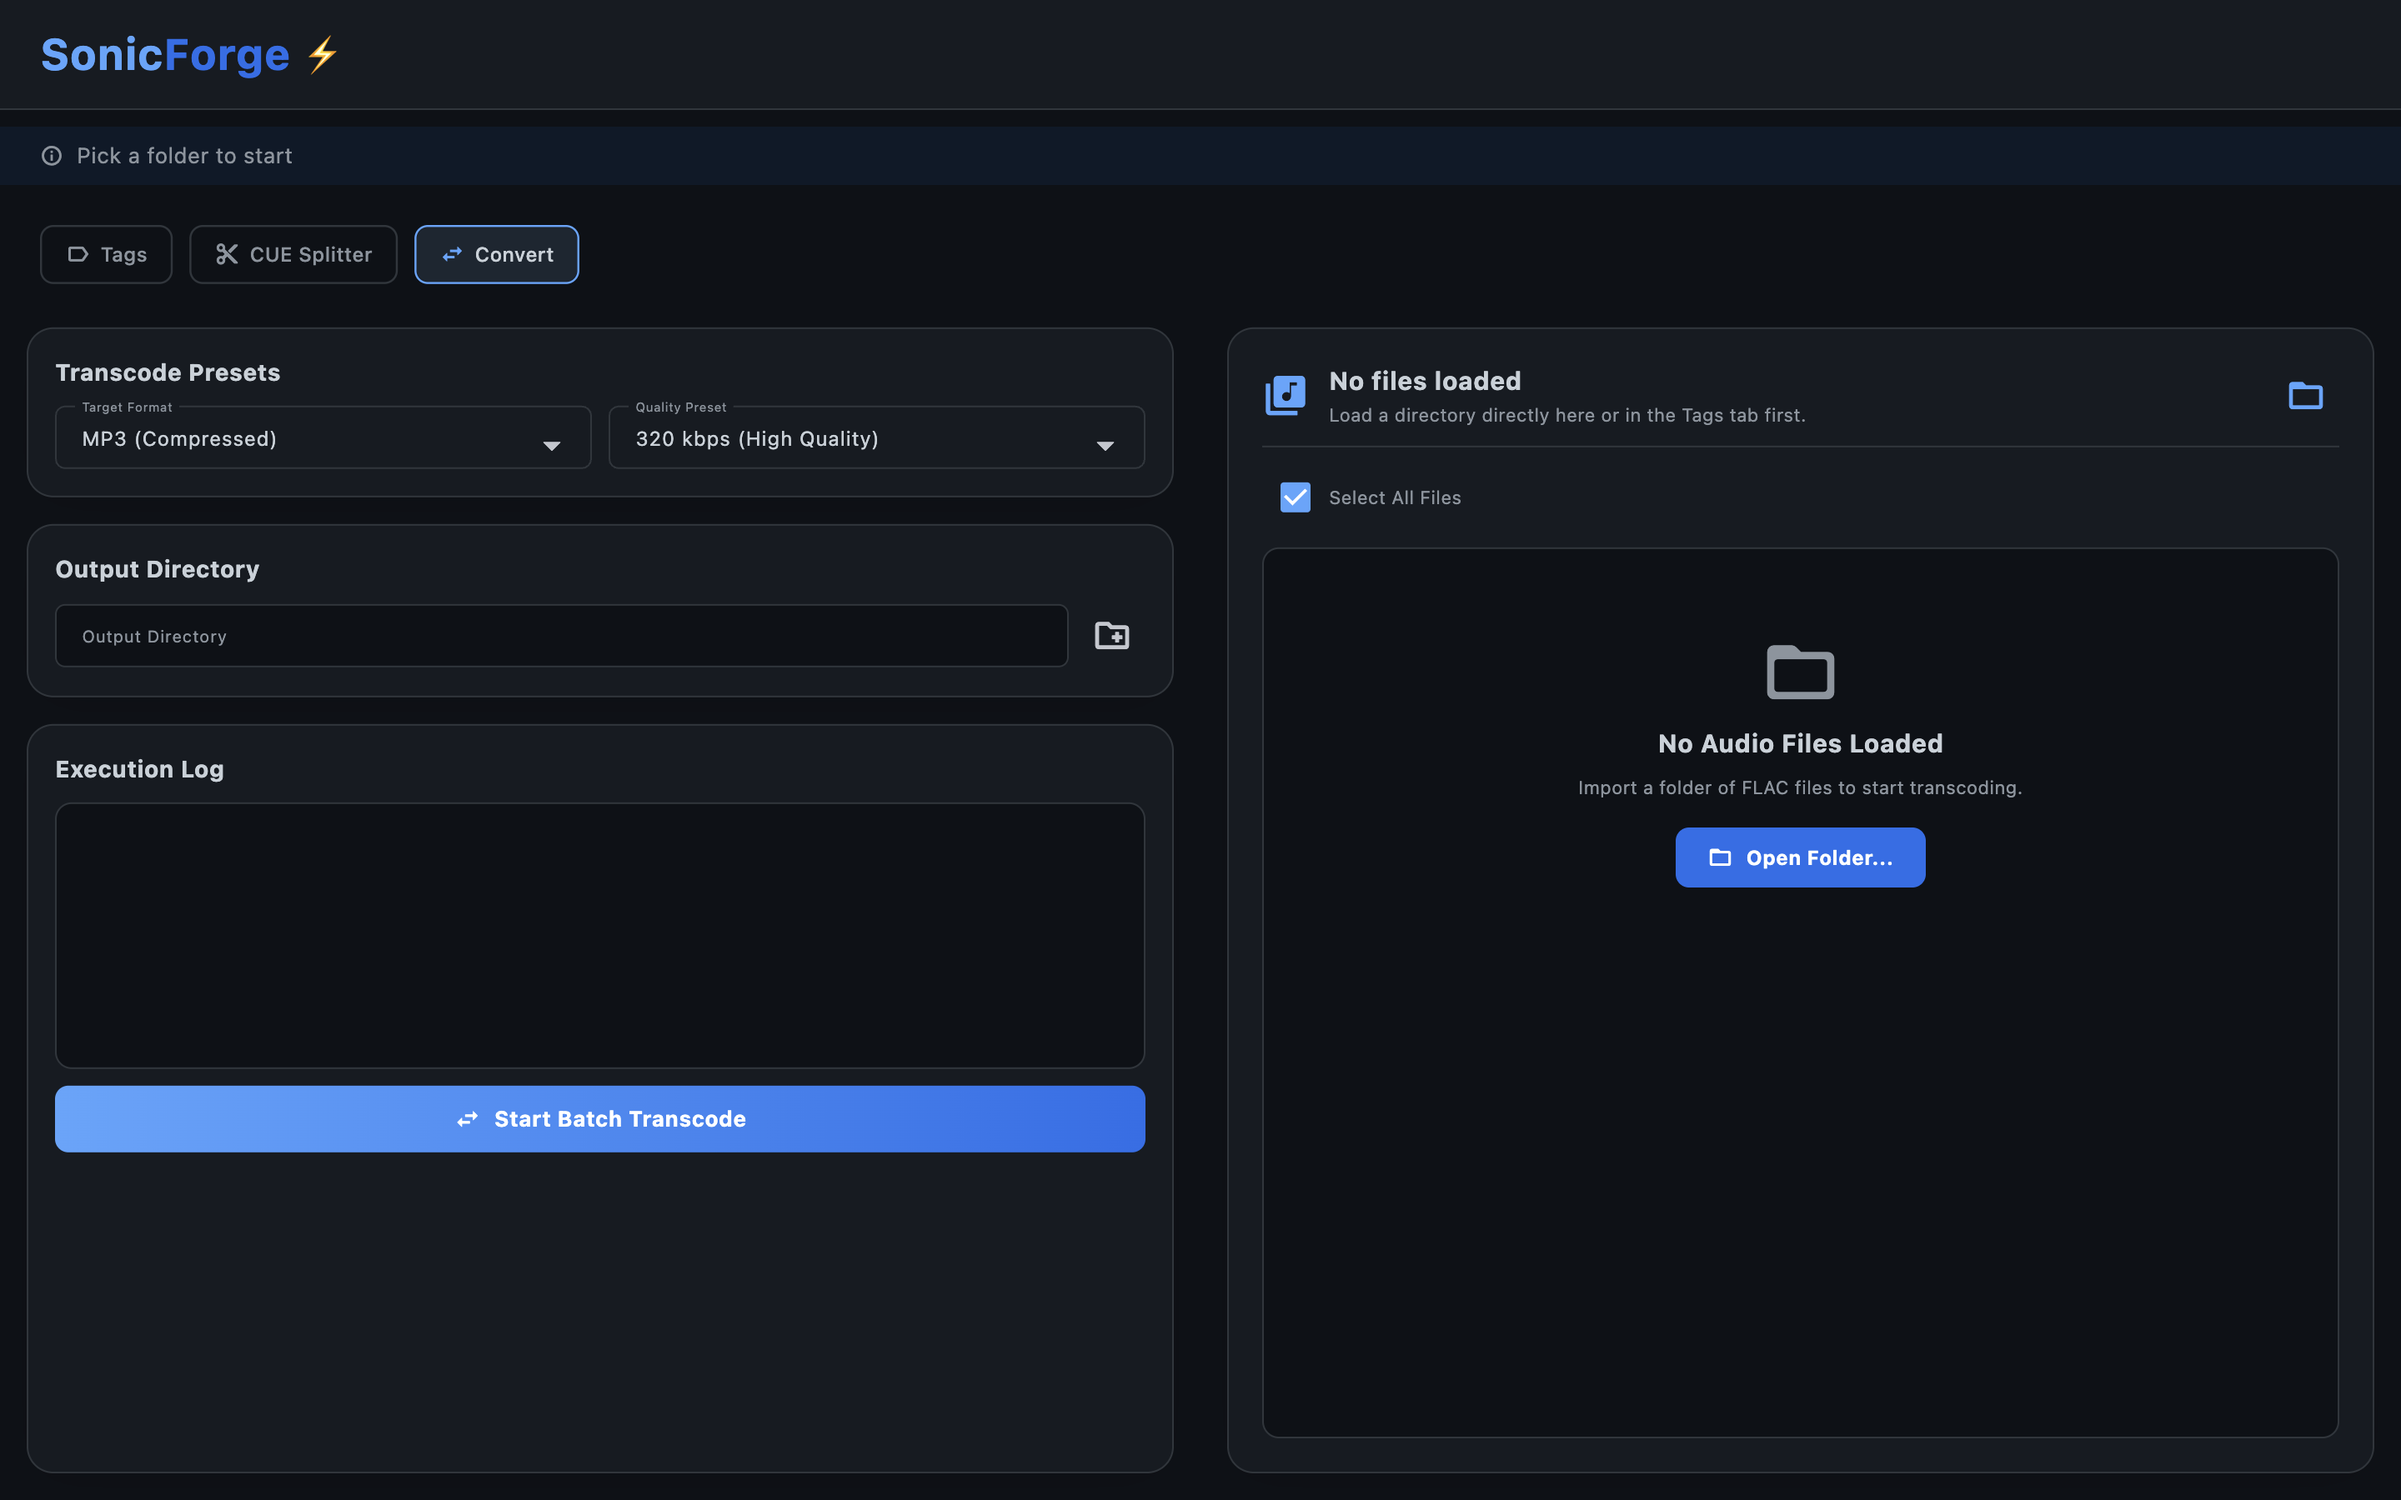
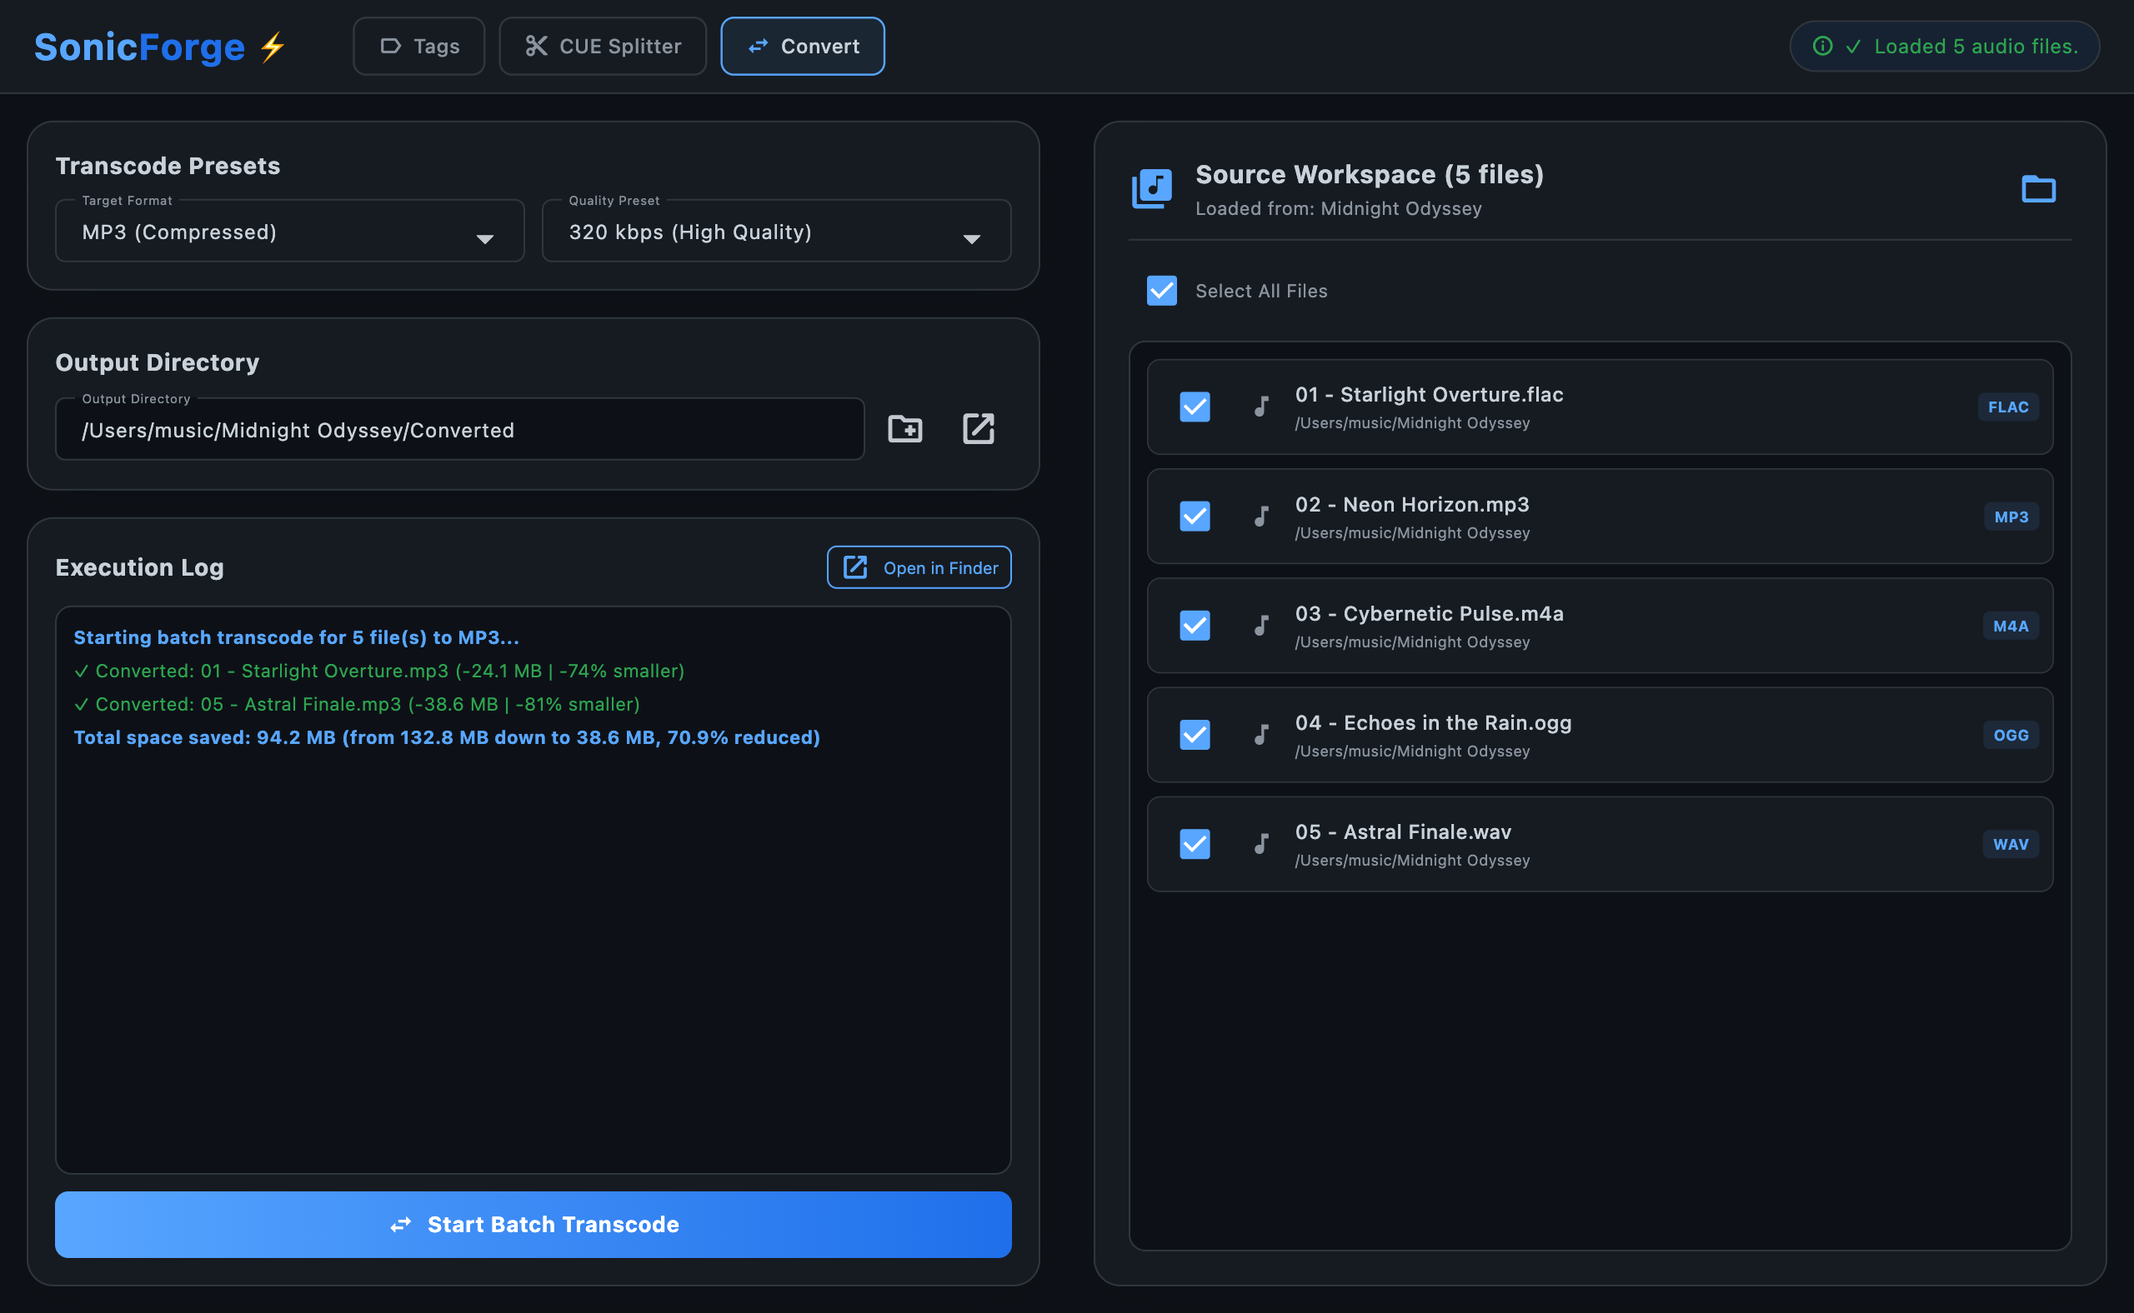
docs: update README and refresh UI screenshots for v1.5.0

diff --git a/README.md b/README.md
@@ -1,82 +1,108 @@
-# SonicForge
+# SonicForge ⚡
 
-![Screenshot of SonicForge UI 1](assets/image_tag_editor.png)
+A fast, zero-dependency batch audio tag editor, CUE sheet splitter, and multi-format audio transcoder for macOS, built with Python and Flet.
 
+![SonicForge Tag Editor](assets/image_tag_editor.png)
 
-A fast, zero-dependency batch audio tag editor, CUE splitter, and audio transcoder for macOS, built with Python and Flet.
+---
 
-## Features
+## ✨ Features
 
-- 🎵 **Multi-Format Audio & Tag Support**: Read and write metadata and cover art across **FLAC**, **MP3** (ID3v2.3), **M4A / MP4 / AAC** (`covr`/`trkn`/`©nam`), **OGG Vorbis**, **Opus**, **WAV**, **AIFF**, **WavPack**, **APE**, and **WMA**.
-- 📁 **Instant Parallel Loading**: Loads large music directories virtually instantaneously using concurrent thread pooling.
-- 🔍 **Sortable & Filterable Track Table**: Sort by File Name, Format, Artist, Title, Album, Track #, or Year, filter tracks in real time, and reveal folders directly in Finder.
-- ✏ **Smart Multi-Selection & Batch Editing**: Native range (`Shift+Click`) and toggle (`⌘+Click`) selection, `< Multiple values — leave blank to keep >` hints, live selection & unsaved-change badges, cover art resolution info, and keyboard shortcuts (`⌘O`, `⌘S`, `⌘R`, `⌘A`, `⌘1–3`).
-- 🌐 **MusicBrainz Auto-Tagging**: Connects to the MusicBrainz database to fetch standardized album metadata with side-by-side track mapping previews and count mismatch warnings.
-- 🖼 **Unified Artwork Search**: Search and fetch high-resolution front covers online from iTunes and Deezer concurrently, or select from local files with in-memory previewing.
-- 🔢 **Auto-Number Tracks**: Sequentially indexes selected tracks (`01`, `02`, `03`...) in a background thread.
-- 🏷 **Batch File Renaming**: Dynamically rename files based on custom tag patterns (e.g. `{track:02d} - {title}`) with character sanitisation and a live Before → After preview dialog.
-- ✂ **Multi-Format CUE Splitter**: Slices continuous album audio files into individual tracks in parallel using a CUE sheet and bundled FFmpeg, outputting to **FLAC**, **MP3 (320 kbps)**, **M4A / AAC (256 kbps)**, **OGG Vorbis (q6)**, or **WAV** with automatic tag and cover art injection.
-- 🔄 **Parallel Batch Audio Transcoder**: Batch transcode audio files concurrently across CPU cores to **MP3**, **M4A (AAC)**, **OGG Vorbis**, **FLAC**, and **WAV**, preserving all tags and embedded cover art.
-- 📊 **Space-Saving Metrics**: Real-time size comparison and aggregate space-saving summary upon completion.
-- 📦 **Zero External Dependencies (`.app`)**: Self-contained macOS `.app` bundle with `ffmpeg` and all dynamic libraries bundled inside `Contents/Frameworks/`.
+- 🎵 **Universal Audio & Tag Support**: Read and write metadata and embedded cover art across **FLAC**, **MP3** (ID3v2.3 + `APIC`), **M4A / MP4 / AAC** (`©nam`, `©ART`, `©alb`, `©day`, `trkn`, `©gen`, `covr`), **OGG Vorbis**, **Opus**, **WAV** (RIFF ID3), **AIFF**, **WavPack**, **APE**, and **WMA**.
+- 📁 **Instant Parallel Loading**: Loads large music directories almost instantaneously using concurrent thread pooling (`ThreadPoolExecutor`).
+- 🔍 **Sortable & Filterable Track Table**: Sort by `File Name`, `Fmt`, `Artist`, `Title`, `Album`, `Track #`, or `Year`, filter tracks in real time, and jump directly to the folder in Finder.
+- ✏ **Smart Multi-Selection & Batch Editing**:
+  - Native range (`Shift+Click`) and toggle (`⌘+Click` / `Ctrl+Click`) multi-selection.
+  - `< Multiple values — leave blank to keep >` hints when selected tracks have differing tags.
+  - Live selection count and amber `Unsaved` change badges.
+  - In-memory cover art preview with live resolution/size inspection (`600×600 JPEG`) and one-click **Revert staged art**.
+- 🌐 **MusicBrainz Auto-Tagging**: Search MusicBrainz releases and preview side-by-side track mappings with automatic track-count mismatch warnings before applying tags.
+- 🖼 **Unified Online Artwork Search**: Concurrently query **iTunes** and **Deezer** for high-resolution album covers, or pick local `JPG`/`PNG` artwork.
+- 🔢 **Auto-Number Tracks**: Sequentially numbers selected tracks (`01`, `02`, `03`…) in a background thread.
+- 🏷 **Batch File Renaming**: Rename files on disk using customizable tag patterns (e.g., `{track:02d} - {title}`, `{artist} - {album} - {track:02d} - {title}`) with a live **Before → After** preview dialog.
+- ✂ **Multi-Format CUE Splitter**: Slice continuous album audio files into individual tracks in parallel using a `.cue` sheet and bundled `ffmpeg`, outputting to **FLAC**, **MP3 (320 kbps)**, **M4A / AAC (256 kbps)**, **OGG Vorbis (q6)**, or **WAV** with automatic metadata and cover art injection.
+- 🔄 **Parallel Batch Audio Transcoder**: Convert audio files concurrently across CPU cores to **MP3**, **M4A / AAC**, **OGG Vorbis**, **FLAC**, and **WAV**, preserving all tags and cover art with real-time space-saving metrics.
+- 📦 **Zero External Dependencies (`.app`)**: Self-contained macOS `.app` bundle with `ffmpeg`, dynamic libraries, and the branded `SonicForge` client bundled inside.
 
-## Project Structure
+---
 
-```
+## 📸 Screenshots
+
+### Tag Editor (`⌘1`)
+![Tag Editor](assets/image_tag_editor.png)
+
+### CUE Splitter (`⌘2`)
+![CUE Splitter](assets/image_cue_splitter.png)
+
+### Batch Audio Converter (`⌘3`)
+![Audio Converter](assets/image_converter.png)
+
+---
+
+## ⌨ Keyboard Shortcuts
+
+| Shortcut | Action |
+| :--- | :--- |
+| `⌘O` / `Ctrl+O` | Open Audio Folder |
+| `⌘S` / `Ctrl+S` | Save Tags to Selected Tracks |
+| `⌘R` / `Ctrl+R` | Open Batch Rename Dialog |
+| `⌘A` / `Ctrl+A` | Select / Deselect All Tracks |
+| `⌘1` / `⌘2` / `⌘3` | Switch between **Tags**, **CUE Splitter**, and **Convert** tabs |
+| `Shift+Click` | Range-select tracks in the table |
+| `⌘+Click` / `Ctrl+Click` | Toggle individual track selection |
+
+---
+
+## 🗂 Project Structure
+
+```text
 SonicForge/
-├── core/               # Business logic (metadata I/O, API client, image processing, state)
-├── ui/                 # Flet UI components (main app, file table, tag editor, artwork dialog)
-├── utils/              # Shared utilities (logger)
-├── tests/              # Pytest unit tests
-├── assets/             # Static UI assets (icons, etc.)
-├── main.py             # Application entry point
+├── core/                   # Business logic (multi-format metadata I/O, CUE parser/splitter, transcoder, API client, state)
+├── ui/                     # Flet UI components (main app, sortable file table, tag editor, dialogs, CUE & Convert tabs)
+├── utils/                  # Shared utilities (native OS dialogs, path/bundle config, icon generator, logger)
+├── tests/                  # Pytest unit test suite
+├── assets/                 # App icons (.icns, .png) and README screenshots
+├── main.py                 # Application entry point
+├── SonicForge.spec         # Zero-dependency macOS PyInstaller bundle specification
+├── CHANGELOG.md            # Version history and release notes
 ├── requirements.txt
 └── pytest.ini
 ```
 
-## Setup
+---
+
+## 🚀 Setup & Running from Source
 
 ```bash
-# Create and activate a virtual environment
+# 1. Create and activate a virtual environment
 python3 -m venv .venv
 source .venv/bin/activate
 
-# Install dependencies
+# 2. Install Python dependencies
 pip install -r requirements.txt
+
+# 3. Launch SonicForge
+python3 main.py
 ```
 
-## Running
+---
+
+## 📦 Packaging a Standalone macOS `.app`
+
+SonicForge includes a custom PyInstaller specification (`SonicForge.spec`) that bundles Python, Flet, `ffmpeg`, and all required dynamic libraries into a self-contained `dist/SonicForge.app` with zero external dependencies:
 
 ```bash
-# Run from the terminal:
-python3 main.py 
-``` 
-Or double-click on `SonicForge.command`
+# Build dist/SonicForge.app
+./.venv/bin/pyinstaller SonicForge.spec --noconfirm
 
-
-## Packaging (Building `.app` for macOS)
-
-To compile SonicForge into a standalone macOS `.app` that can be placed in your `/Applications` folder:
-
-1. Install PyInstaller inside your virtual environment:
-   ```bash
-   pip install pyinstaller
-   ```
-2. Build the app bundle with the custom flat icon:
-   ```bash
-   flet pack main.py --icon assets/icon.icns --name "SonicForge"
-   ```
-This will generate `dist/SonicForge.app` which you can double-click or drag into your `/Applications` folder!
-
-## Testing
-
-```bash
-python3 -m pytest tests/ -v
+# Install to /Applications
+cp -R dist/SonicForge.app /Applications/
 ```
 
-## Requirements
+---
 
-- Python 3.11+
-- macOS (native dialog support via `osascript`; Linux/Windows fall back to tkinter)
-- Dependencies listed in `requirements.txt`
+## 🧪 Testing
 
+```bash
+./.venv/bin/pytest tests/ -v
+```
